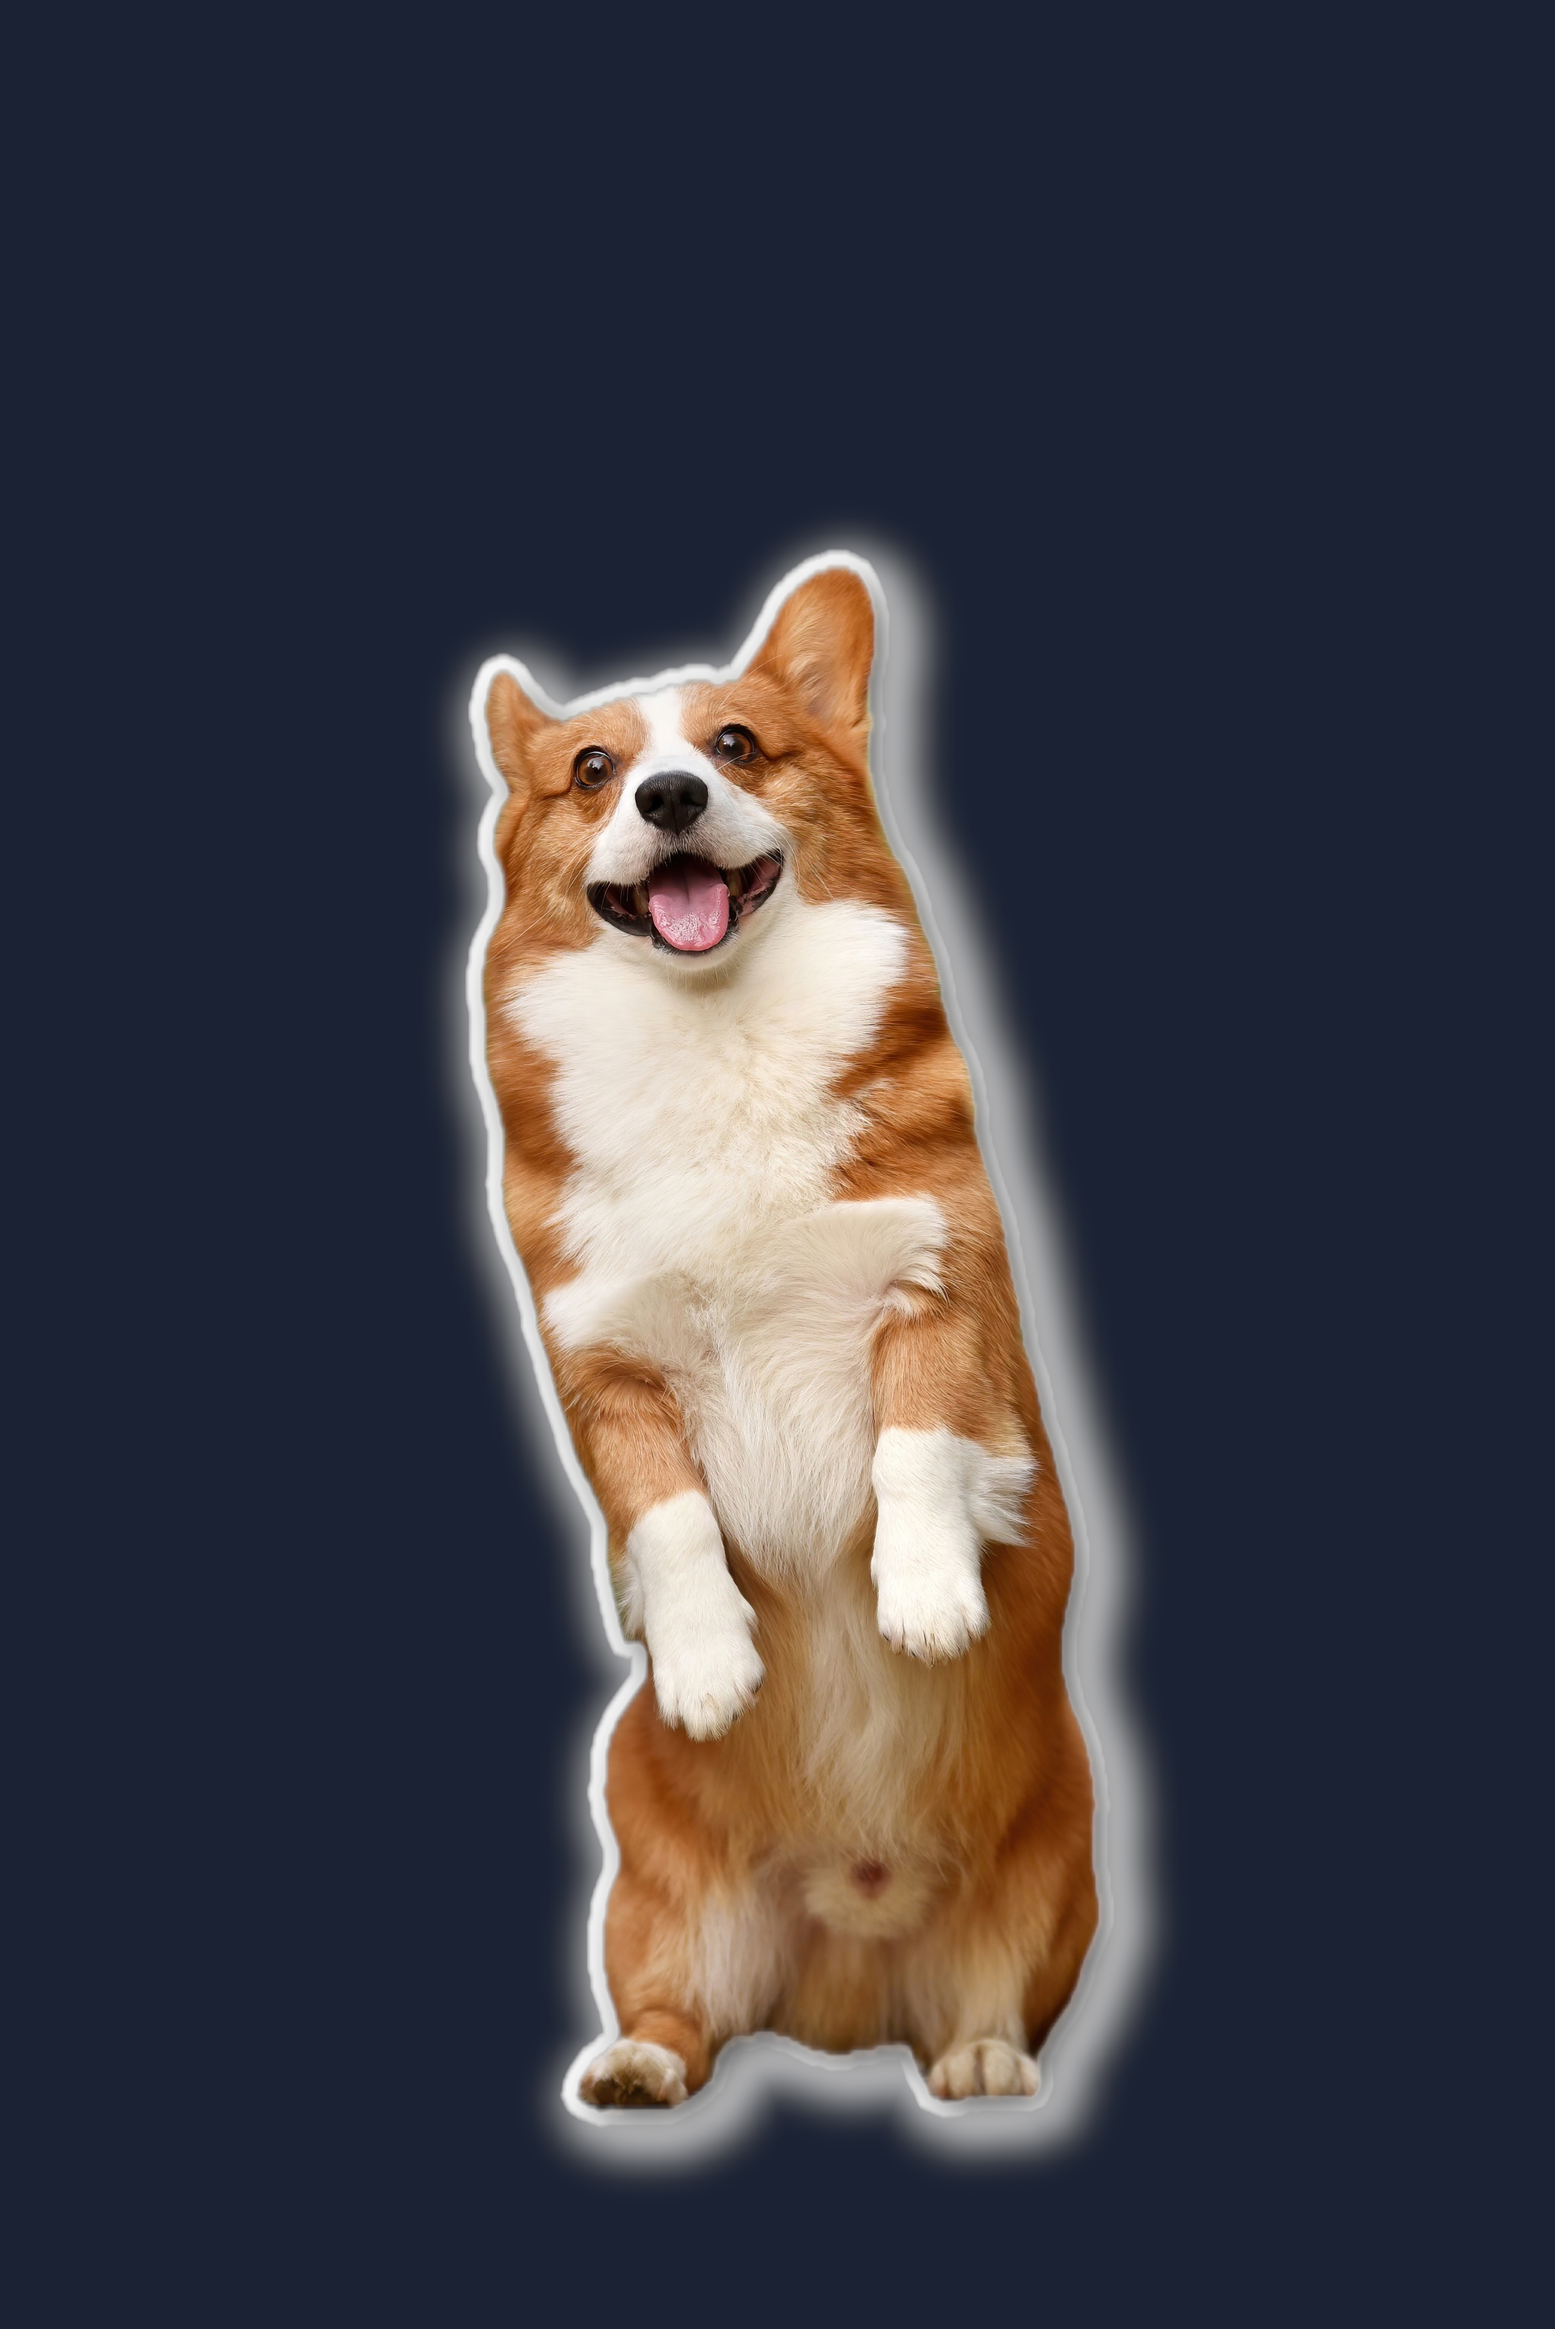
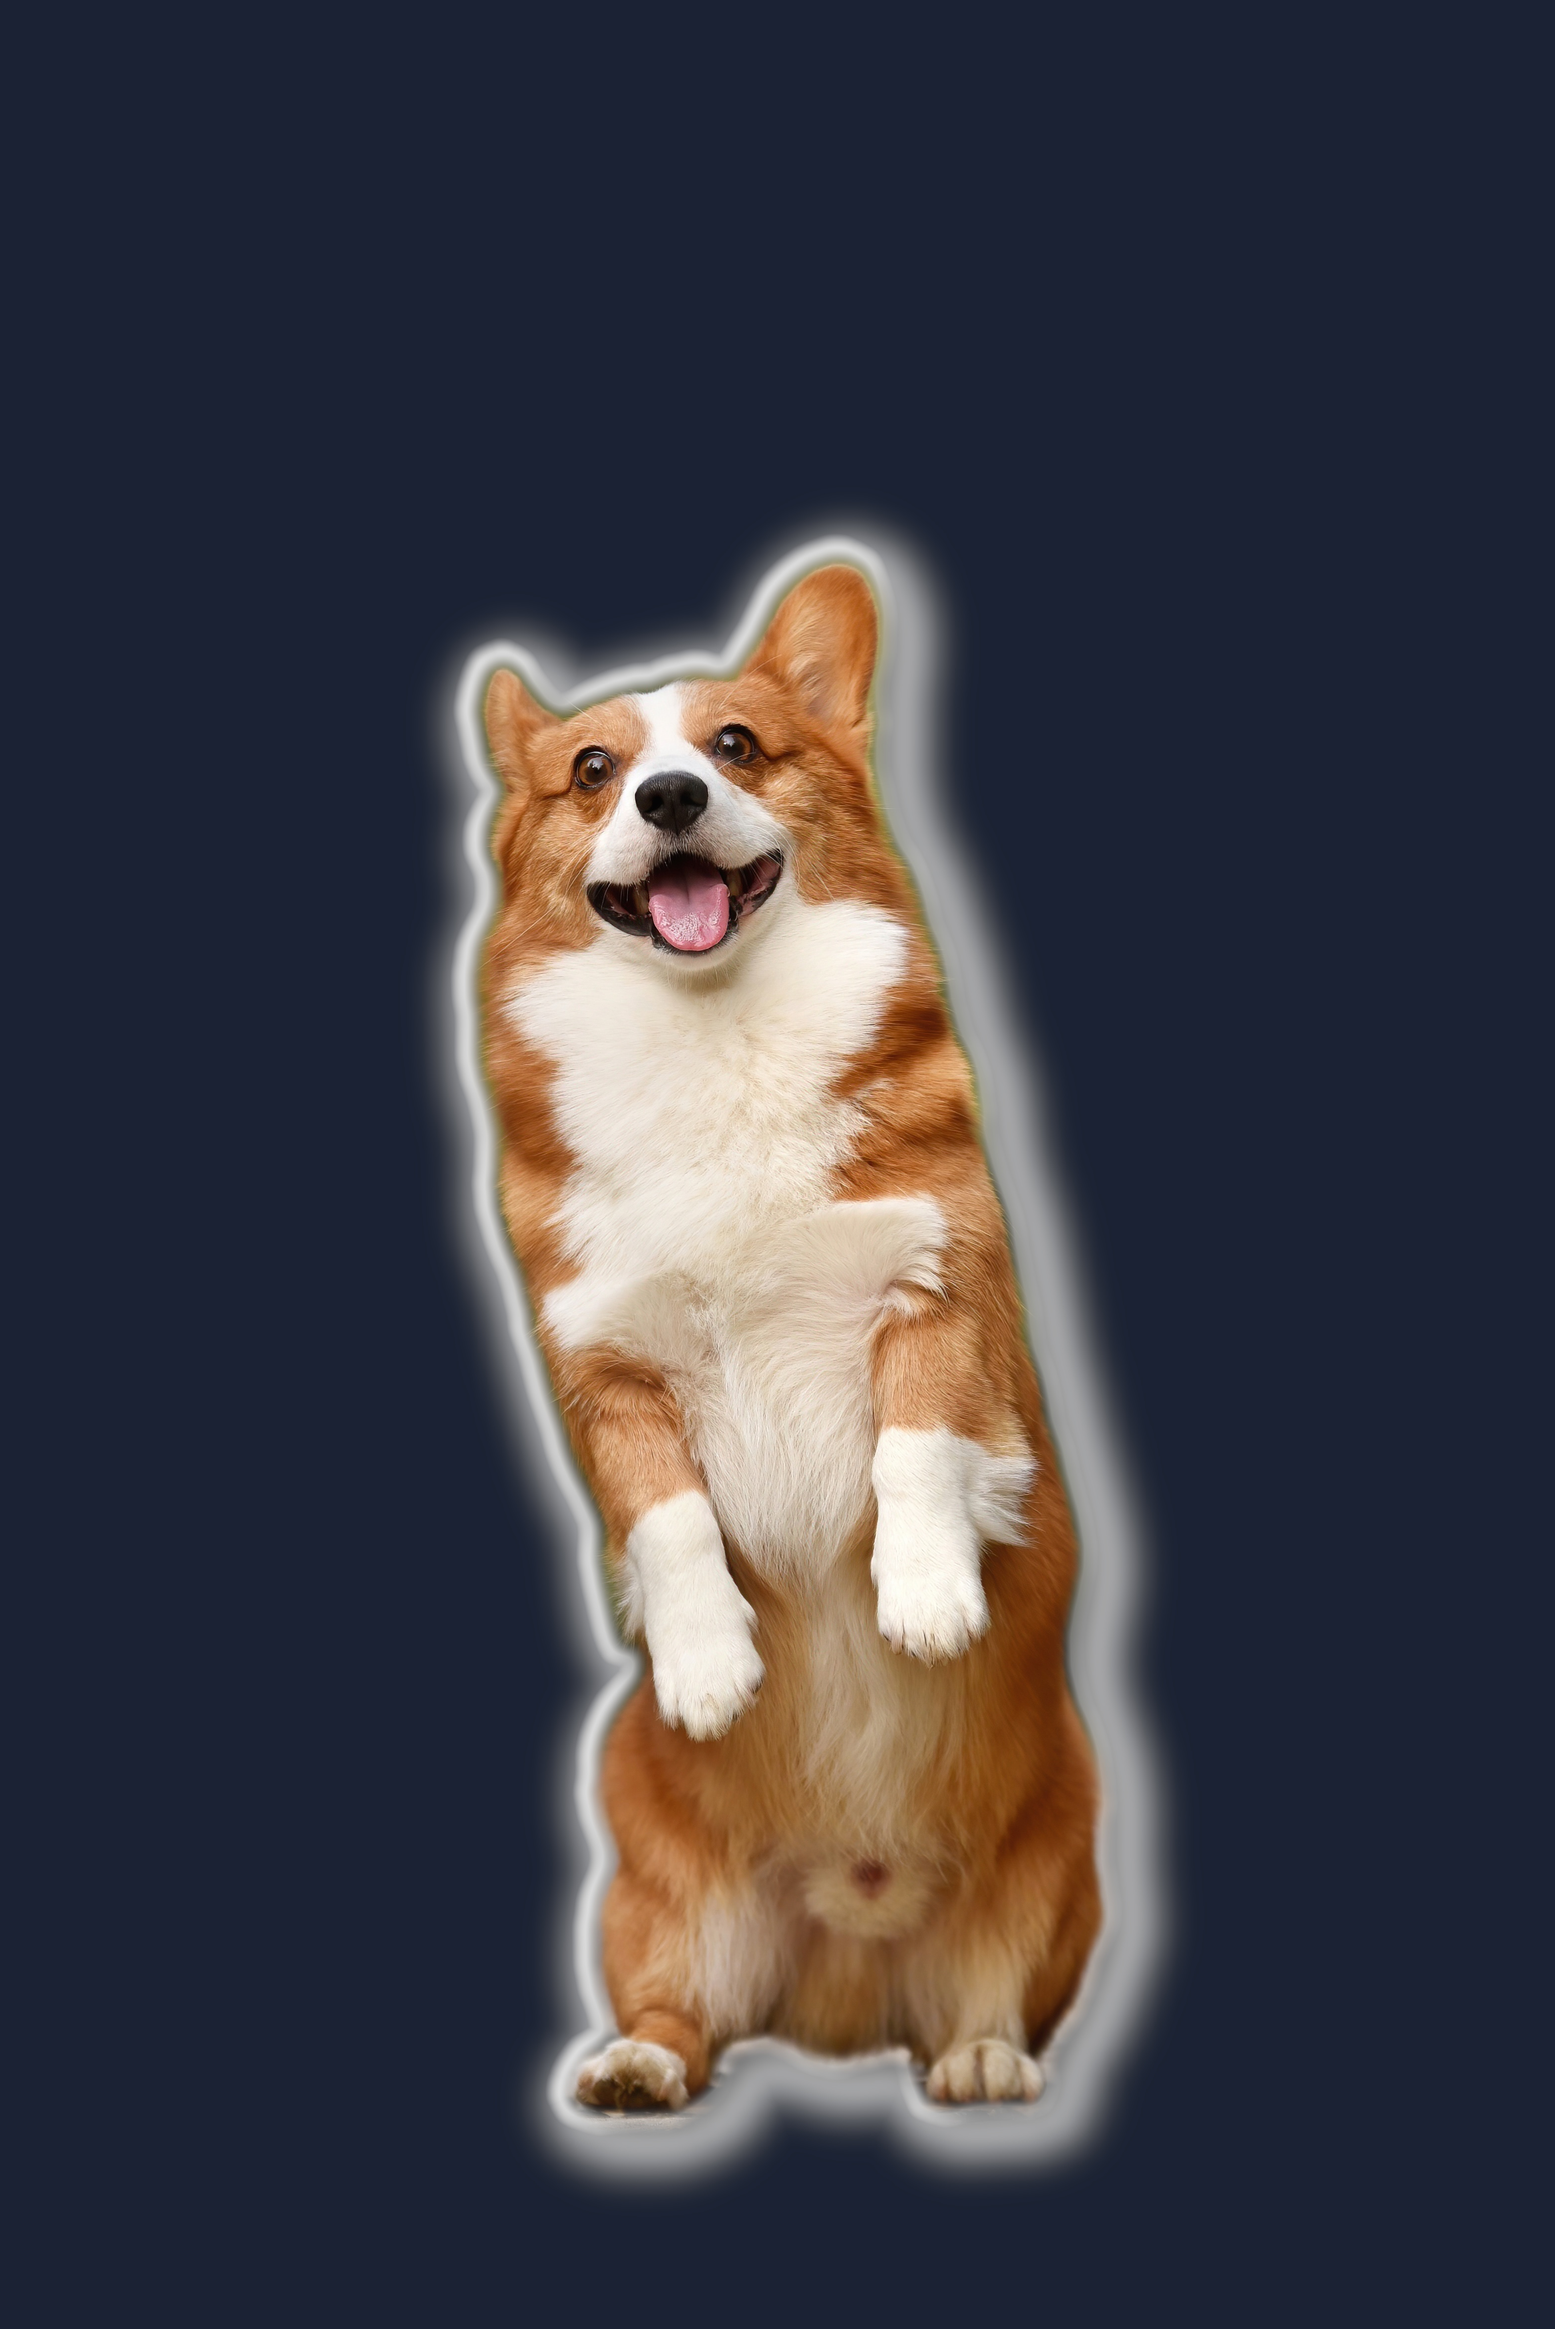
docs: real die-cut sticker chain + Parastoo vintage + Before=original
Showcase 3 (sticker) chain bumped to a real die-cut sticker:
  mask:expand=24,feather=12; fg:shadow=blur=40:offset=22,22:opacity=0.7:color=#000,outline=color=#fff:width=28
Two stages: (1) mask:expand+feather dilates and rounds the contour so the
white border isn't a jagged shape-follower, (2) fg:shadow+outline lays
soft drop shadow + thick rounded white border. Before image swapped to
the ORIGINAL photo (no pre-processing) so users see the real source.

Showcase 4 (vintage) switched from kingfisher (matte cut off the branch
at the bottom and the bokeh bg went flat gray, underwhelming) to
Parastoo Ahmadi with --algo person:
  bg:sepia=1.0,adjust=brightness=-0.15:saturation=0.45; vignette=1.8:1.1
Library bookshelves go sepia + darken; subject keeps floral dress / red
lipstick / skin tones. Person-segmentation algo isolates the subject
cleanly from the warm wooden background.

Tests / lints: 181/181 unit, 209/209 integration, lint-readme OK,
lint-docs 179 chains OK.

Changed region(s): [[0.2793, 0.2183, 0.7758, 0.9355]]

diff --git a/README.md b/README.md
@@ -425,31 +425,33 @@ bgbgone red-panda.jpg --filter "bg:blur=60" -o portrait.jpg
 
 `CIGaussianBlur` at radius 60 runs on the background plate only; the foreground stays pin-sharp. Note: no `--bg` flag needed — when a chain uses the `bg` layer, bgbgone auto-promotes the source image as the background plate. Phone-camera portrait mode in one shell command.
 
-### 3. Sticker style — thick white halo + big drop shadow on white background
+### 3. Sticker style — die-cut white border with rounded corners + drop shadow
 
 ```bash
-bgbgone corgi.jpg --bg color:white \
-  --filter "fg:shadow=blur=30:offset=20,20:opacity=0.7:color=#000,outline=color=#fff:width=24" \
+bgbgone corgi.jpg --bg color:#1a2233 \
+  --filter "mask:expand=24,feather=12; fg:shadow=blur=40:offset=22,22:opacity=0.7:color=#000,outline=color=#fff:width=28" \
   -o corgi-sticker.jpg
 ```
 
-| Before (on white) | After (sticker) |
+| Before (original photo) | After (sticker) |
 |---|---|
-| ![corgi on white](docs/images/showcase/03-corgi-before.jpg) | ![corgi sticker](docs/images/showcase/03-corgi-sticker.jpg) |
+| ![corgi original](docs/images/showcase/03-corgi-before.jpg) | ![corgi sticker](docs/images/showcase/03-corgi-sticker.jpg) |
 
-`CIMorphologyMaximum` dilates the matte by 24 px for a thick white halo; `CIGaussianBlur` + `CIAffineTransform` produce a big offset drop shadow (30 px blur, 20 px down-right, 70% opacity). Chain order matters: shadow rendered first so the outline overpaints the inner edge cleanly.
+Two-stage chain. **Stage 1 — mask shape:** `mask:expand=24` dilates the matte 24 px outward (so the sticker paper extends beyond the subject), then `mask:feather=12` Gaussian-blurs the expanded matte so the contour is rounded — no jagged shape-following. **Stage 2 — fg styling:** `shadow=blur=40:offset=22,22:opacity=0.7` lays a soft drop shadow under the rounded silhouette; `outline=color=#fff:width=28` paints the thick white "paper" border. The dark navy plate (`--bg color:#1a2233`) makes both the white border and the shadow clearly visible.
 
-### 4. Vintage backdrop, modern subject — fg/bg colour split
+### 4. Vintage backdrop, modern subject — fg/bg colour split (Parastoo in a library)
 
 ```bash
-bgbgone kingfisher.jpg --filter "bg:sepia=1.0,adjust=brightness=-0.3:saturation=0.3; vignette=2:1" -o vintage.jpg
+bgbgone parastoo.jpg --algo person \
+  --filter "bg:sepia=1.0,adjust=brightness=-0.15:saturation=0.45; vignette=1.8:1.1" \
+  -o vintage.jpg
 ```
 
 | Before (original photo) | After (vintage backdrop) |
 |---|---|
-| ![kingfisher original](docs/images/showcase/04-kingfisher-before.jpg) | ![kingfisher vintage](docs/images/showcase/04-kingfisher-vintage.jpg) |
+| ![Parastoo original](docs/images/showcase/04-parastoo-before.jpg) | ![Parastoo vintage](docs/images/showcase/04-parastoo-vintage.jpg) |
 
-Two-stage chain. **Stage 1 (bg only):** `CISepiaTone` at 100% + `CIColorControls` brightness=-0.3, saturation=0.3 — the background turns into a darkened, desaturated old-photo backdrop. **Stage 2 (composite):** `CIVignette` intensity 2 darkens the corners. Foreground stays untouched: the kingfisher keeps its electric blue head and vivid orange chest — modern subject in front of vintage backdrop.
+`--algo person` uses Apple Vision's person-segmentation model to isolate Parastoo cleanly from the warm wooden library bookshelves behind her. **Stage 1 (bg only):** `CISepiaTone` at 100% + `CIColorControls` brightness=-0.15, saturation=0.45 — the bookshelves become a darkened, desaturated old-library backdrop. **Stage 2 (composite):** `CIVignette` intensity 1.8 darkens the corners for film-style depth. Foreground stays untouched: floral dress, red lipstick, and skin tones keep their modern colour against the vintage backdrop.
 
 ### 5. Dramatic composite — corgi in deep space, three-stage chain
 
@@ -474,7 +476,7 @@ All showcase fixtures are CC0 or Franz Enzenhofer's own CC BY 4.0 work. Sidecar 
 |---|---|---|---|
 | `Red_Panda__24986761703_.jpg` | Mathias Appel | **CC0 / Public Domain** | [Wikimedia Commons](https://commons.wikimedia.org/wiki/File:Red_Panda_(24986761703).jpg) |
 | `Fawn_and_white_Welsh_Corgi_puppy_...jpg` | Huoadg5888 (Pixabay) | **CC0 / Public Domain** | [Wikimedia Commons](https://commons.wikimedia.org/wiki/File:Fawn_and_white_Welsh_Corgi_puppy_standing_on_rear_legs_and_sticking_out_the_tongue.jpg) |
-| `Eisvogel_kingfisher.jpg` | Joefrei | **CC0 / Public Domain** | [Wikimedia Commons](https://commons.wikimedia.org/wiki/File:Eisvogel_kingfisher.jpg) |
+| `Parastoo_Ahmadi.jpg` | Wikimedia uploader | **CC0 / Public Domain** | [Wikimedia Commons](https://commons.wikimedia.org/wiki/File:Parastoo_Ahmadi.jpg) |
 | `bg/Flying-Dragon-Nebula_Sh_2-113.png` | NASA / ESA Hubble (PD-USGov) | **CC0 / Public Domain** | [Wikimedia Commons](https://commons.wikimedia.org/wiki/File:Flying-Dragon-Nebula_Sh_2-113.png) |
 
 Full per-filter docs in [`docs/filters/`](docs/filters/). The 49-filter catalogue index: [`docs/filters/README.md`](docs/filters/README.md).
